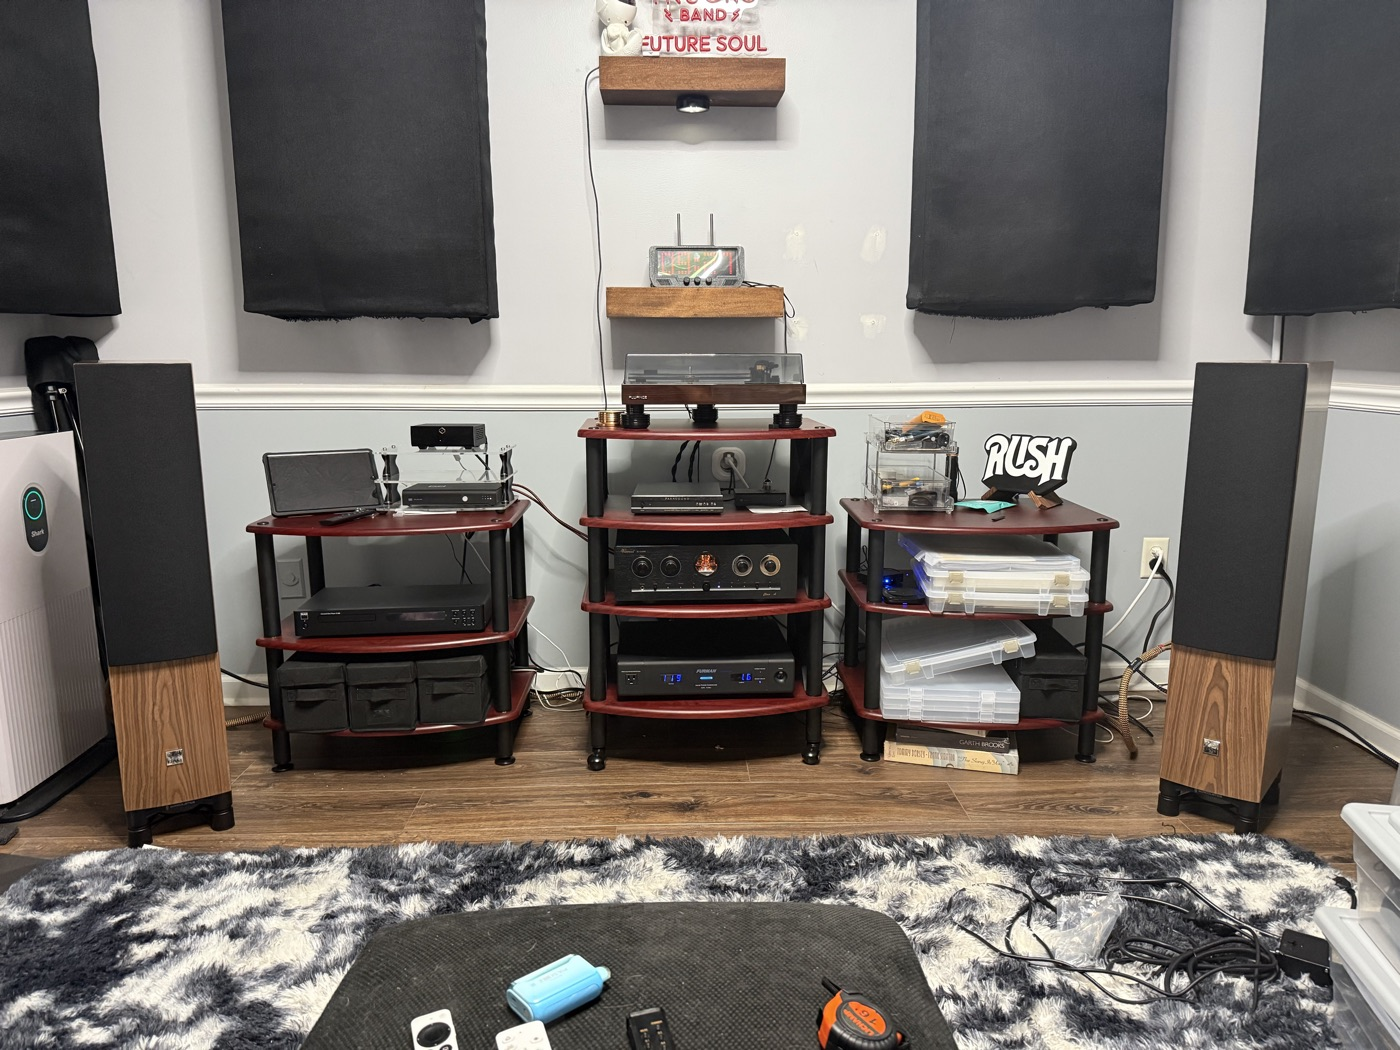
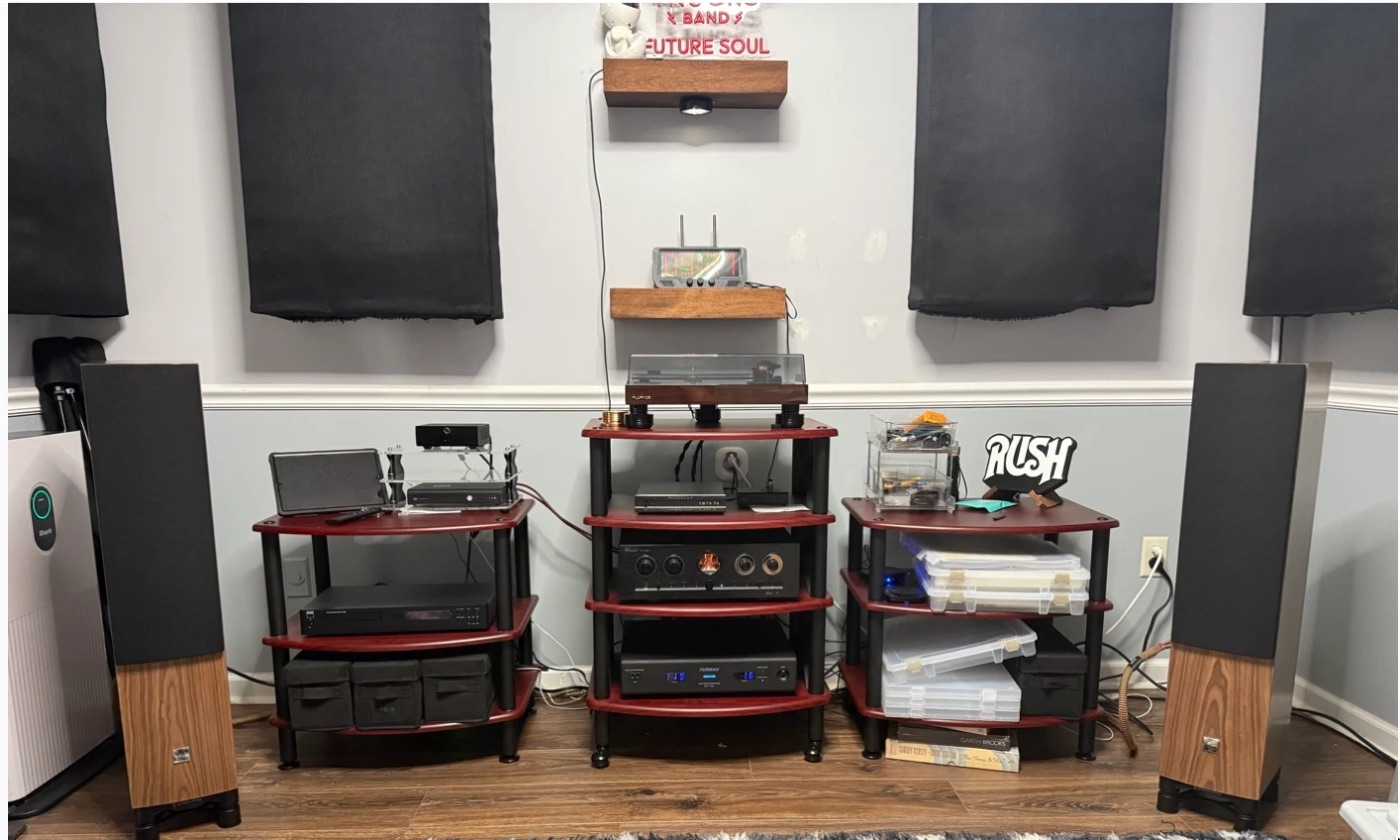
Replace current-setup photo in speakers guide (#99)

diff --git a/guides/speakers.html b/guides/speakers.html
@@ -199,7 +199,7 @@ body{font-family:var(--font);color:var(--text);background:var(--white);line-heig
     </ul>
 
     <figure class="guide-figure">
-      <img src="/images/guides/speakers-mine-dali-room.jpg" alt="Listening room with a pair of DALI Rubicon 5 floorstanding speakers either side of an equipment rack" width="1400" height="1050" loading="lazy" decoding="async">
+      <img src="/images/guides/speakers-mine-dali-room.jpg" alt="Listening room with a pair of DALI Rubicon 5 floorstanding speakers either side of an equipment rack" width="1400" height="840" loading="lazy" decoding="async">
       <figcaption>My current setup: the DALI Rubicon 5s either side of my equipment rack.</figcaption>
     </figure>
 
